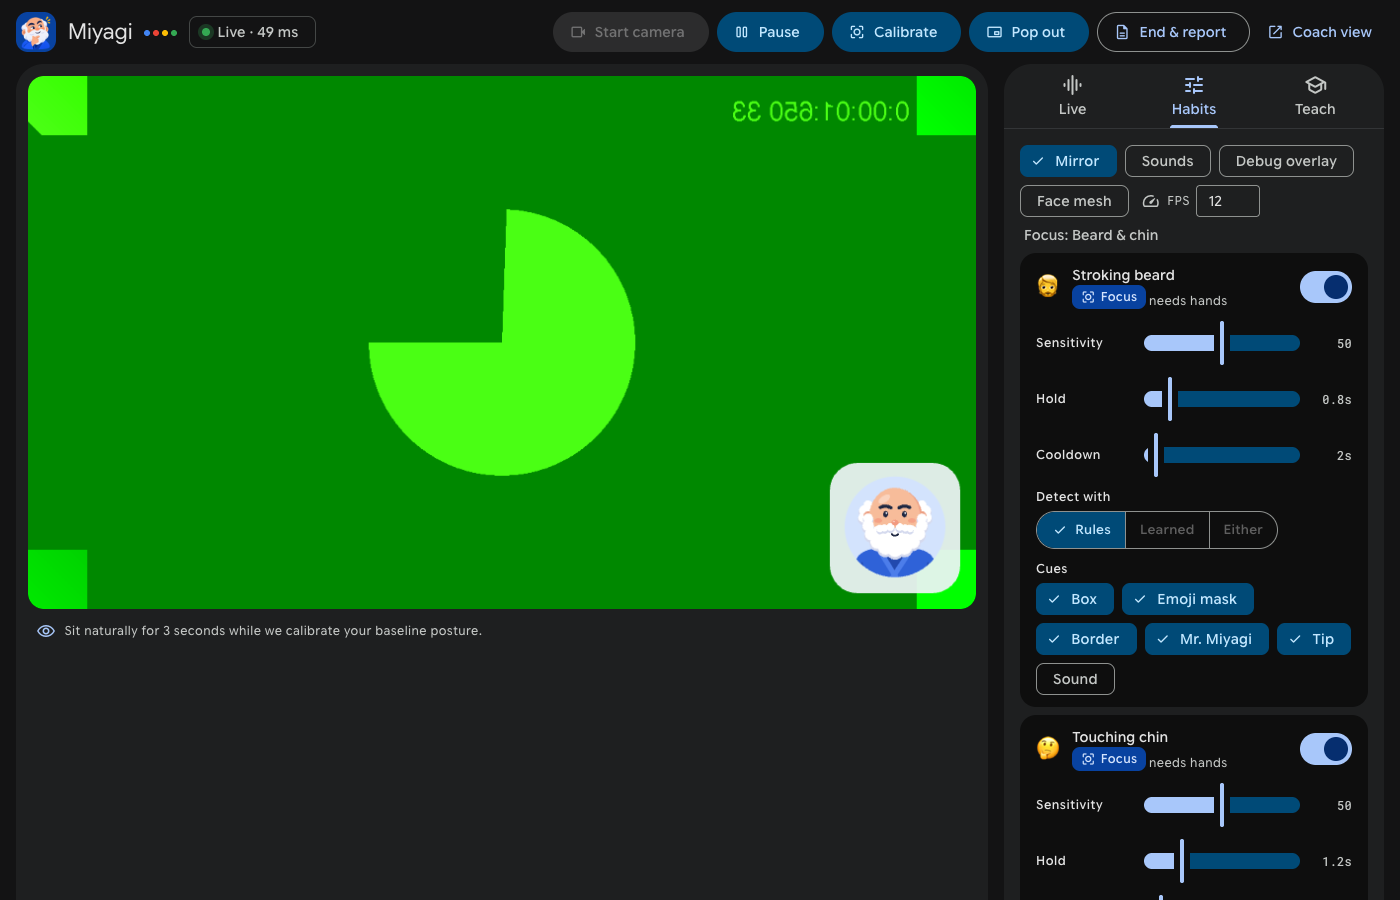
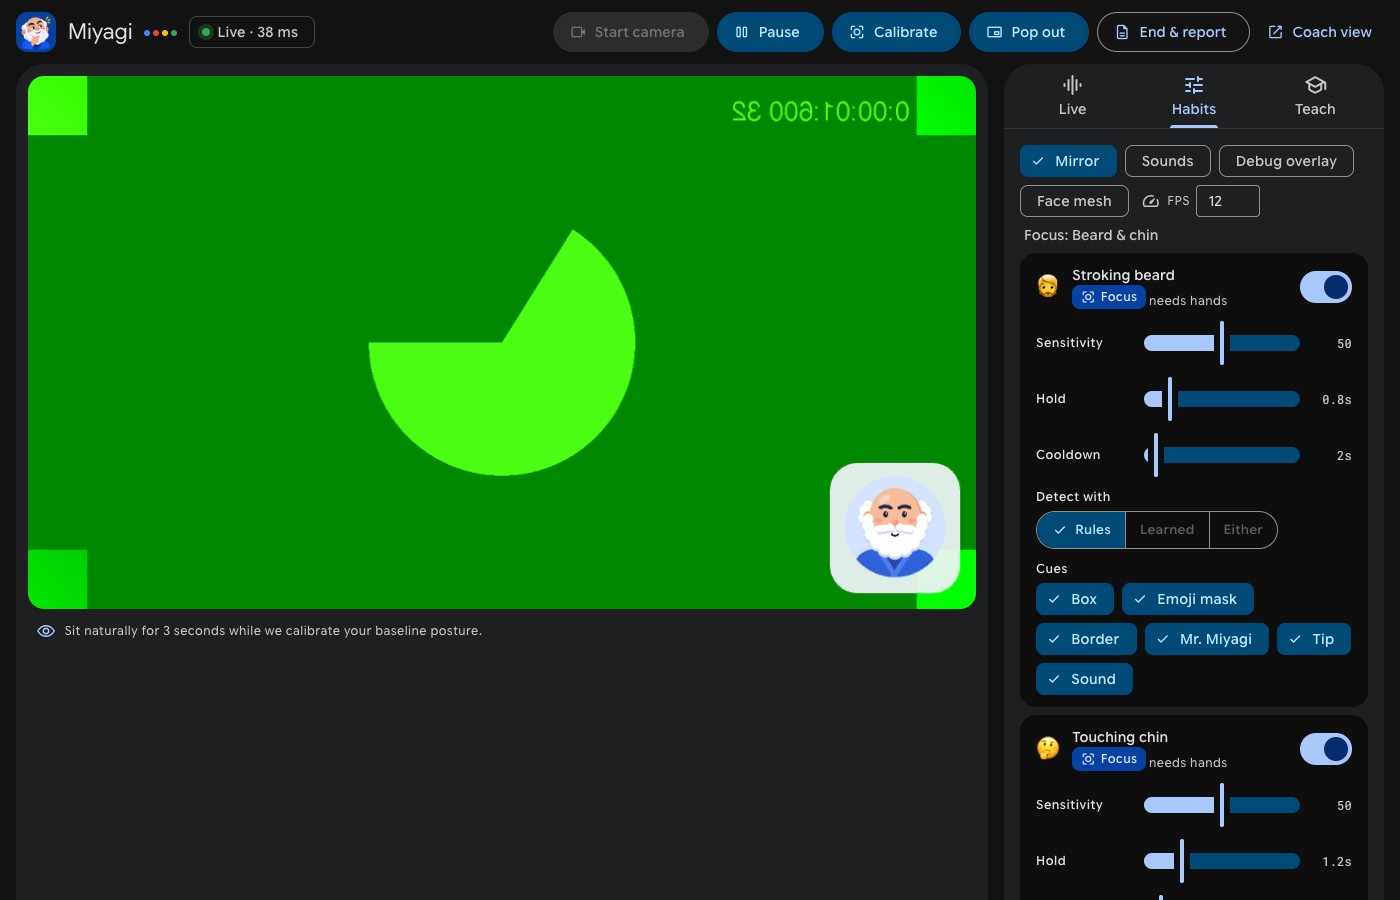
Make detection sounds work: one switch and a soft chime
Turning on Sounds played nothing, for two reasons:

- a sound needed the global Sounds setting AND the habit's own Sound
  cue, and that cue was off for every habit by default
- the AudioContext was created when the first alert fired, outside a
  user gesture, so Chrome kept it suspended for the whole page load
  (and toggling Sounds reused the suspended context)

Now the sound cue is on for every habit by default (INTENT D14), so
the global Sounds setting, still off by default, is the one switch.
Settings saved before this (no v: 2) get the sound cue added once.
The AudioContext is created or resumed on any pointerdown/keydown;
in the coach view, the startup hint says any key turns sound on.

The beep becomes a soft chime: Web Audio sine notes E5, B5, E6 with
faint overtones and a gentle decay, one note per severity level, at
volume 0.05. Switching Sounds on plays a one-note preview.

Tests: the sound cue is on by default and can be turned off per
habit. Docs: README (sound section, coach-view key), DESIGN cues
bullet, INTENT D14 and current focus; README screenshots regenerated
(Sound chips now ticked). No effect on saved personal models.

Changed region(s): [[0.3379, 0.2178, 0.43, 0.3733], [0.7371, 0.7156, 0.8293, 0.7778], [0.1843, 0.0311, 0.215, 0.0622]]

diff --git a/miyagi/static/app.js b/miyagi/static/app.js
@@ -38,7 +38,7 @@
       const conditions = {};
       for (const [id, c] of Object.entries(S.conditions))
         conditions[id] = { enabled: c.enabled, sensitivity: c.sensitivity, min_duration: c.min_duration, cooldown: c.cooldown, styles: c.styles, mode: c.mode };
-      localStorage.setItem(STORE_KEY, JSON.stringify({ conditions, mirror: S.mirror, sound: S.sound, debug: S.debug, mesh: S.mesh, fps: S.fps }));
+      localStorage.setItem(STORE_KEY, JSON.stringify({ v: 2, conditions, mirror: S.mirror, sound: S.sound, debug: S.debug, mesh: S.mesh, fps: S.fps }));
     } catch { /* storage unavailable: settings just won't persist */ }
   }
 
@@ -52,6 +52,8 @@
     const saved = load();
     for (const c of res.conditions) S.conditions[c.id] = { ...c, ...(saved.conditions?.[c.id] || {}), focus: c.focus };
     for (const k of ["mirror", "sound", "debug", "mesh", "fps"]) if (k in saved) S[k] = saved[k];
+    // Settings saved before the sound cue was on by default (v1, INTENT D14) get it turned on once.
+    if (saved.conditions && (saved.v || 1) < 2) for (const c of Object.values(S.conditions)) if (!c.styles.includes("sound")) c.styles = [...c.styles, "sound"];
     if (!COACH) {
       $("optMirror").checked = S.mirror; $("optSound").checked = S.sound; $("optDebug").checked = S.debug; $("optMesh").checked = S.mesh; $("optFps").value = S.fps;
       renderConditions(); renderCounts(); renderTeach();
@@ -59,7 +61,8 @@
     await fontsReady;
     startTicker();
     if (COACH) {
-      notice("keyboard", "P pop out · C calibrate · Space pause · F full screen · M mirror", 7000);
+      // No click happens here, so sound can only start after a key press (see unlockAudio).
+      notice("keyboard", `${S.sound ? "Any key turns on sound · " : ""}P pop out · C calibrate · Space pause · F full screen · M mirror`, 7000);
       start();
     }
   }
@@ -217,7 +220,7 @@
 
   function onNewAlert(a) {
     if (a.styles.includes("toast")) S.toast = { emoji: a.emoji, title: a.label, text: a.tip, until: performance.now() + 5000, severity: a.severity };
-    if (a.styles.includes("sound") && S.sound) beep(a.severity);
+    if (a.styles.includes("sound") && S.sound) chime(a.severity);
     const log = $("log");
     if (!log) return;
     if (S.logEmpty) { log.innerHTML = ""; S.logEmpty = false; }
@@ -228,17 +231,36 @@
     while (log.children.length > 50) log.lastChild.remove();
   }
 
-  let audio;
-  function beep(sev) {
+  // ---------------------------------------------------------------- sound
+  // Browsers only let a page start audio from a user gesture. Creating the AudioContext when the
+  // first alert fires left it suspended for good, so it's created (or resumed) on any click or key.
+  let audio = null;
+  function unlockAudio() {
     try {
       audio = audio || new AudioContext();
-      const o = audio.createOscillator(), g = audio.createGain();
-      o.frequency.value = 520 + sev * 120; o.type = "sine";
-      g.gain.setValueAtTime(0.0001, audio.currentTime);
-      g.gain.exponentialRampToValueAtTime(0.08, audio.currentTime + 0.02);
-      g.gain.exponentialRampToValueAtTime(0.0001, audio.currentTime + 0.25);
-      o.connect(g).connect(audio.destination); o.start(); o.stop(audio.currentTime + 0.3);
-    } catch { /* audio unavailable */ }
+      if (audio.state === "suspended") audio.resume().catch(() => {});
+    } catch { audio = null; /* Web Audio unavailable */ }
+  }
+  for (const ev of ["pointerdown", "keydown"]) document.addEventListener(ev, unlockAudio, { capture: true, passive: true });
+
+  // A soft chime: sine notes (E5, B5, E6) with faint overtones, a fast attack and a gentle decay.
+  // One note per severity level, so a repeated habit sounds a little busier, never louder.
+  const CHIME_NOTES = [659.25, 987.77, 1318.51], CHIME_VOLUME = 0.05;
+  function chime(sev) {
+    if (!audio || audio.state !== "running") return;
+    const t = audio.currentTime + 0.01;
+    const out = audio.createGain(); out.gain.value = CHIME_VOLUME; out.connect(audio.destination);
+    CHIME_NOTES.slice(0, Math.max(1, Math.min(3, sev))).forEach((f, i) => {
+      const t0 = t + i * 0.11;
+      for (const [mult, amp, len] of [[1, 1, 0.9], [2, 0.18, 0.45], [3, 0.06, 0.25]]) {
+        const o = audio.createOscillator(), g = audio.createGain();
+        o.type = "sine"; o.frequency.value = f * mult;
+        g.gain.setValueAtTime(0.0001, t0);
+        g.gain.exponentialRampToValueAtTime(amp, t0 + 0.008);
+        g.gain.exponentialRampToValueAtTime(0.0001, t0 + len);
+        o.connect(g).connect(out); o.start(t0); o.stop(t0 + len + 0.05);
+      }
+    });
   }
 
   let lastCountsKey = "";
@@ -618,7 +640,10 @@
     $("btnTeachClear").onclick = () => { if (confirm("Delete all recorded teach samples and the personal model?")) send({ type: "teach_clear", label: null }); };
     $("btnResetDefaults").onclick = () => { for (const c of S.defaults) S.conditions[c.id] = { ...c, styles: [...c.styles] }; save(); renderConditions(); lastCountsKey = ""; renderCounts(); sendConfig(); };
     $("optMirror").onchange = (e) => { S.mirror = e.target.checked; save(); };
-    $("optSound").onchange = (e) => { S.sound = e.target.checked; save(); if (S.sound) beep(1); };
+    $("optSound").onchange = (e) => {
+      S.sound = e.target.checked; save();
+      if (S.sound) { unlockAudio(); audio?.resume().then(() => chime(1)).catch(() => {}); } // preview
+    };
     $("optDebug").onchange = (e) => { S.debug = e.target.checked; save(); sendConfig(); };
     $("optMesh").onchange = (e) => { S.mesh = e.target.checked; save(); };
     $("optFps").onchange = (e) => { S.fps = Math.min(30, Math.max(2, Number(e.target.value) || 12)); save(); };

diff --git a/tests/test_detectors.py b/tests/test_detectors.py
@@ -90,6 +90,14 @@ def test_default_enabled_set_and_border_cue():
     assert all("border" in c.styles for c in conds.values()), "red border cue is on for every habit"
 
 
+def test_sound_cue_is_on_by_default_but_can_be_turned_off_per_habit():
+    assert all("sound" in c.styles for c in default_conditions().values()), "sound cue is on for every habit"
+    s = CoachSession()
+    s.configure({"beard_stroke": {"styles": ["box", "border"]}})
+    assert "sound" not in s.conditions["beard_stroke"].styles
+    assert "sound" in s.conditions["chin_touch"].styles
+
+
 def test_chin_touch_vs_beard_stroke_are_mutually_exclusive():
     s, t = calibrated_session(all_on=False)
     chin_y = CY + 0.45 * FH

diff --git a/miyagi/conditions.py b/miyagi/conditions.py
@@ -221,11 +221,14 @@ _DEFAULTS: list[ConditionConfig] = [
 # (Changing this list is a product decision: log it in INTENT.md.)
 DEFAULT_ON = {"face_touch", "neck_touch", "leaning_in", "slouching"}
 
-# The red border cue is on for every habit by default.
+# The red border cue and the sound cue are on for every habit by default (D10, D14). The sound
+# only plays while the global Sounds setting is on, so out of the box the app stays silent.
 for _c in _DEFAULTS:
     _c.enabled = _c.focus or _c.id in DEFAULT_ON
     if "border" not in _c.styles:
         _c.styles.insert(0, "border")
+    if "sound" not in _c.styles:
+        _c.styles.append("sound")
 
 FOCUS_AREA = "Beard & chin"
 

diff --git a/README.md b/README.md
@@ -14,7 +14,7 @@ on under *Habits → More habits* when you want them.
 
 When a habit is detected you get a cue of your choice: a **red rectangle** around the spot,
 an **emoji mask** over your face, a **glowing border**, a cartoon **avatar ("Mr. Miyagi") that acts
-out what you're doing**, a **toast** with a tip, or a soft **sound**. Repeat a habit and the
+out what you're doing**, a **toast** with a tip, or a soft **chime**. Repeat a habit and the
 cues get louder. At the end you get a short **coaching report**.
 
 The UI follows **Material Design 3** (Google colors, Google Sans Flex, Material Symbols), in light and dark.
@@ -78,6 +78,7 @@ There are no on-screen controls, only keyboard shortcuts:
 | `F` or double-click | full screen |
 | `M` | mirror on/off |
 | `H` or `?` | show these shortcuts |
+| any key | also turns on sound, if *Sounds* is on |
 
 Tune habits in the full UI (`http://localhost:<port>/`), then use the coach view during calls.
 
@@ -170,7 +171,13 @@ On a Chromebook without Linux, the **Secure Shell** extension can make the same 
 | 🫨 Restless hands | off | lots of hand motion |
 | 🙅 Arms crossed | off | arms crossed over the body |
 
-By default every habit uses the **red border** cue, plus its own mix of box, emoji mask, Mr. Miyagi and tip.
+By default every habit uses the **red border** and **sound** cues, plus its own mix of box, emoji mask,
+Mr. Miyagi and tip.
+
+**Sound:** turn on *Sounds* (in *Habits*) to hear a soft chime each time a habit is detected: one note,
+then two and three notes as it repeats. It plays a preview when you switch it on. To silence one habit,
+untick its *Sound* cue. Browsers only allow sound after you click or press a key on the page, so
+it starts once you click *Start camera* (in the coach view, press any key).
 Each habit has its own **sensitivity**, **hold time** (how long before it alerts), **cooldown**,
 **detection mode** and **cues**, set in the *Habits* tab and remembered by your browser.
 The *Debug overlay* helps with tuning. It draws what the models see: the detection zones, the face

diff --git a/INTENT.md b/INTENT.md
@@ -30,7 +30,8 @@ low-effort feedback on their non-verbal habits.
 on chin/jaw, or propping the head). Tuning effort goes here first.
 
 Also on by default (D10): `face_touch`, `neck_touch`, `leaning_in`, `slouching`. Every habit
-uses the red **border** cue by default. The remaining habits exist and can be switched on.
+uses the red **border** cue and the **sound** cue (audible once *Sounds* is on, D14) by default.
+The remaining habits exist and can be switched on.
 
 ## Goals
 
@@ -83,6 +84,7 @@ that supersedes the old one.
 | D11 | 2026-11-06 | Default Gemini model is pinned to **`gemini-3.8-flash`** (not a `-latest` alias); override with `MIYAGI_LLM_MODEL` | User request: a pinned model gives predictable behaviour |
 | D12 | 2026-11-06 | Project renamed **Miyagi** and moved to `SherifEldeeb/Miyagi`, replacing an earlier prototype there; only its mascot was kept (as the logo). Package `miyagi`, command `miyagi`, env vars `MIYAGI_*` | User request: this implementation is the one going forward |
 | D13 | 2026-11-06 | **Remove all cloud LLM support** (Gemini, OpenAI-compatible, Anthropic): no `llm.py`, no `google-genai` dependency or LLM extras, no `MIYAGI_LLM*` or API-key env vars. The end-of-session report is always the on-device summary. Supersedes D3, D4 and D11 | User request: the models run locally, so the cloud APIs added nothing but dependencies, keys and an off-device path |
+| D14 | 2026-11-06 | The **sound** cue is on for every habit by default; the global *Sounds* setting (off by default) is the one switch that makes it audible. The beep becomes a soft chime, one note per severity level | User request: turning on Sounds did nothing, because each habit's sound cue was off. Keeping the global switch off by default means nothing chimes during a call until the user asks for it |
 
 ## Success criteria
 

diff --git a/DESIGN.md b/DESIGN.md
@@ -180,7 +180,12 @@ read from the installed `mediapipe` by `perception.landmark_connections()`), `fa
 - **Pop out** = `canvas.captureStream()` → hidden `<video>` → Picture-in-Picture. Everything
   shown in the PiP window must be drawn on the main canvas (including the corner Mr. Miyagi and the toast).
 - **Cues** (`ALERT_STYLES`): `box`, `mask` (emoji over `face_box`), `border`, `avatar`,
-  `toast`, `sound` (WebAudio, gated by the Sounds toggle).
+  `toast`, `sound`. `sound` plays `chime(severity)` only while the global *Sounds* setting (`S.sound`)
+  is on: Web Audio sine notes E5, B5, E6 (`CHIME_NOTES`, one note per severity level) with faint 2× and
+  3× overtones, an 8 ms attack and a ~0.9 s exponential decay, at `CHIME_VOLUME = 0.05`. Browsers keep an
+  AudioContext suspended unless a user gesture starts it, so `unlockAudio()` creates or resumes it on any
+  `pointerdown` / `keydown`; `chime` stays silent until then. The `border` and `sound` cues are on for every
+  habit by default (`conditions.py`, D10, D14); settings saved before D14 (no `v: 2`) get `sound` added once.
 - **Settings** are saved per browser in `localStorage` (`miyagi.settings.v1`); the
   `focus` flag always comes from the server.
 - **Debug overlay** (`drawDebug`, only when the *Debug overlay* setting is on): dashed zone boxes; the body
